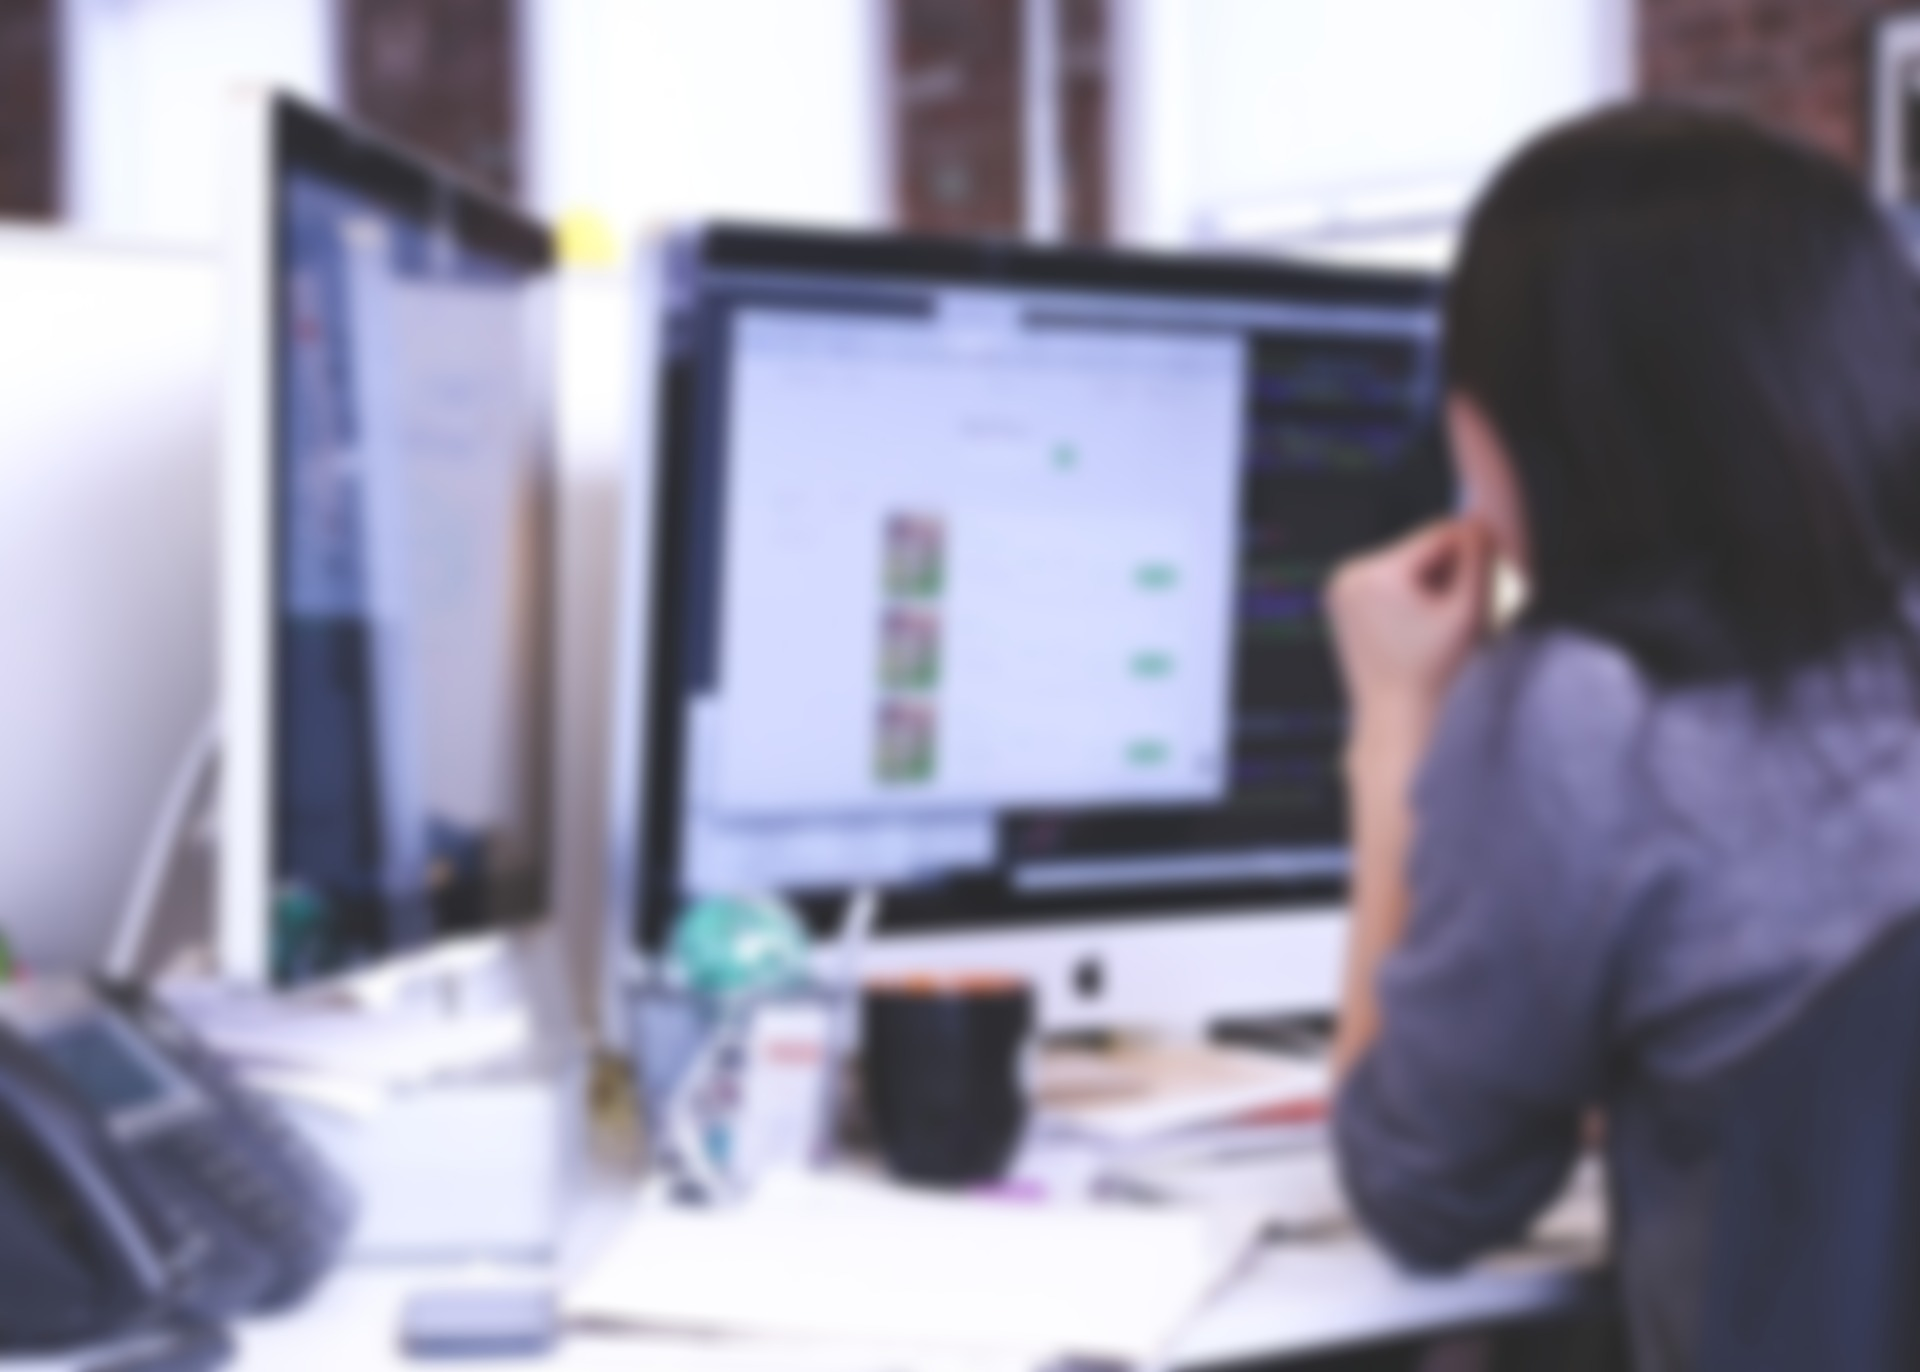
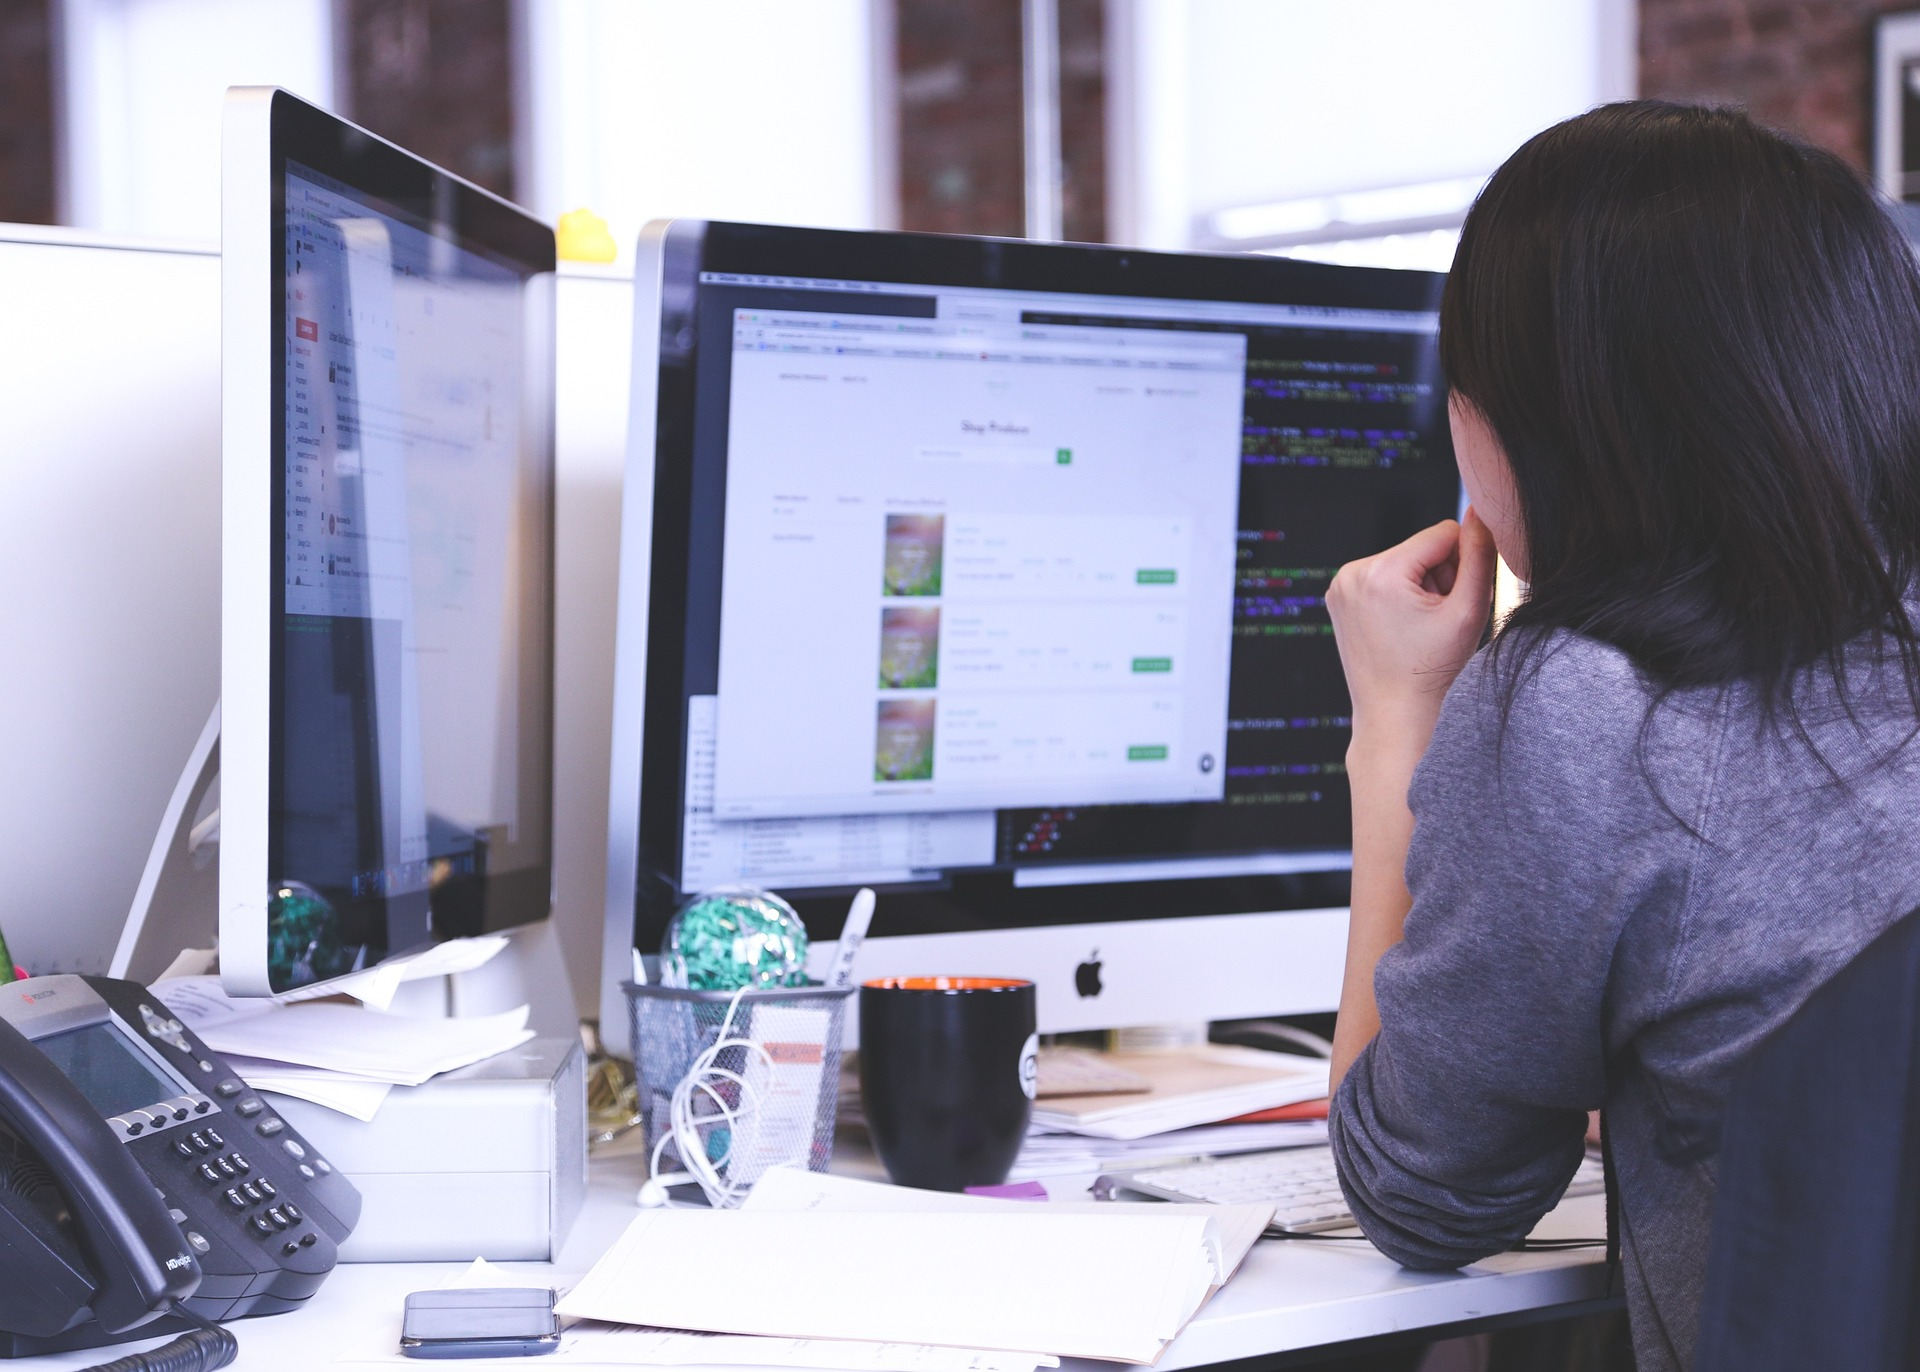
Oprava pozadí webu, menší opravy

diff --git a/assets/CSS/index.css b/assets/CSS/index.css
@@ -17,7 +17,30 @@
   --light: #FFF;
   --additional: #4c4897;
   --gray: #bbb;
+  --transparent: rgba(255, 255, 255, 0);
 }
+
+.gradient-overlay::after {
+  content: "";
+  position: absolute;
+  bottom: 0;
+  left: 0;
+  width: 100%;
+  height: 15%;
+  background: linear-gradient(to bottom, var(--transparent), var(--light));
+}
+
+        
+    
+        .image-container img {
+
+          width: 100%;
+          height: auto;
+          display: block;
+          filter: opacity(30%);
+        }
+    
+        
 
 
 
@@ -26,8 +49,6 @@ margin: 50px;
 }
 
 body {
-    background-image: url("../Images/IndexBackgroundImage.jpg");
-    background-color: var(--light);
   height: 400px;
   width: auto;
   background-position: center;
@@ -54,7 +75,6 @@ body {
    }
 
    h3{
-    margin-top:200px;
     margin-bottom: -420px;
     font-family: 'Jost', sans-serif;
     font-size:50px;
@@ -63,18 +83,21 @@ body {
 
    h1{
     text-align: center;
-    
-    font-size: 40px;
+    font-weight: 500;
+    font-size: 60px;
     font-family: 'Jost';
-    color:black;
+    color:var(--black);
    }
 
-   h4{
+   .welcome{
     text-align: center;
+    text-decoration: none;
     white-space: pre-line;
-    font-size: 20px;
-    font-family: 'Jost';
-    color:black;
+    font-size: 25px;
+    font-family: 'Jost', light;
+    font-weight: 300;
+    margin-top:-30px;
+    color:var(--black);
    }
 
    ep{
@@ -99,9 +122,9 @@ img {
   }
 
   .nav-links{
-    margin-left:40px;
+    margin-left:60px;
     margin-bottom: auto;
-    margin-top:auto;
+    margin-top:40px;
   }
 
 
@@ -114,10 +137,32 @@ img {
 
   }
 
+  .image-container {
+    overflow: hidden;
+    width: 102%;
+    margin-left: -20px;
+    margin-top: -20vh;
+    position: relative;
+    height: auto;
+    z-index: 1; /* Set a lower z-index */
+  }
+  
+  .overlay-text {
+    position: absolute;
+    top: 35%;
+    left: 50%;
+    transform: translate(-50%, -50%);
+    color: var(--dark);
+    text-align: center;
+    z-index: 2;
+  }
+  
   nav {
-    height: 100vh;
-    width: 70vw;
-    min-width: 600px;
+    position: relative;
+    z-index: 3;
+    height: 100px;
+    margin-top: -20px;
+    background: linear-gradient(to bottom, rgba(255, 255, 255, 1), rgba(255, 255, 255, 0));
   }
 
   ul {
@@ -228,6 +273,9 @@ img {
 
 
   footer {
+    overflow: hidden;
+    width: 100%;
+    margin-left:-10px;
     background-color: var(--dark);
     color: var(--light);
     padding: 20px;

diff --git a/index.html b/index.html
@@ -17,6 +17,7 @@
 <link rel="preconnect" href="https://fonts.googleapis.com">
 <link rel="preconnect" href="https://fonts.gstatic.com" crossorigin>
 <link href="https://fonts.googleapis.com/css2?family=Jost&display=swap" rel="stylesheet">
+<link href="https://fonts.googleapis.com/css2?family=Jost:wght@300&display=swap" rel="stylesheet">
     <!--/Fonty-->
 
     <!--CSS & JS-->
@@ -26,14 +27,15 @@
 <title>SiteCom</title>
 </head>
 <body>
+
   <div style="height:400px;">
-    <div style="height: 100px; margin-top:-20px; position:relative;
+    <div style="height: 100px; margin-top:-20px; position:relative; width:102%; margin-left:-20px;
     background: linear-gradient(to bottom, rgba(255, 255, 255, 1), rgba(255, 255, 255, 0));"
     ><br>
     <nav>
       <div style="display: flex;">
-      <img src="assets/Images/Logo.png" alt="Logo" width="6%" height="auto">
-      <h5>|</h5>
+      <img src="assets/Images/Logo.png" alt="Logo" width="6%" max-height="auto" style="margin-top:20px;margin-left:20px">
+      <h5 style="margin-top:20px;margin-left:20px">|</h5>
       <div class="nav-links">
         <a href="#projekty">Naše projekty</a>
         <a href="#historie">Historie</a>
@@ -43,15 +45,20 @@
     </nav>
   
   </div>
-    
-    
-</div>
-<div style="margin-top: -200px">
-  <h1>Vítejte v SiteCom</h1>
-      <h4>Naše firma se věnuje profesionální tvorbě webových stránek na míru pro firmy i jednotlivce.
-      Pomáháme vám s weby již více než 3 roky</h4>
-</div>
-<br><br><br>   
+
+
+
+  <div class="image-container" >
+    <img src="assets/Images/IndexBackgroundImage.jpg">
+    <div class="overlay-text">
+      <h1>Vítejte v SiteCom</h1>
+      <h6 class="welcome" style="width:80vw">Naše firma se věnuje profesionální tvorbě webových stránek na míru pro firmy i jednotlivce.
+        Pomáháme vám s weby již více než 3 roky</h6>
+    </div>
+    <div class="gradient-overlay"></div>
+  </div>
+
+ 
 <h3 id="projekty">Naše projekty</h3>
 <br><br>
   <div class="container" style="margin-top:350px;">
@@ -113,7 +120,10 @@
                     <p>Budoucnost zaměřena na uspokojení zákazníků a expanzi do zahraničí. Společenská odpovědnost spočívá v publikování informací pro partnery, vývojáře a začínající firmy.</p>
                 </li>  
       </ul>
-      <br>
+      <br><br>
+    
+    
+    
       <footer>
         <div class="totally-a-row">
         <div class="footer-part">
